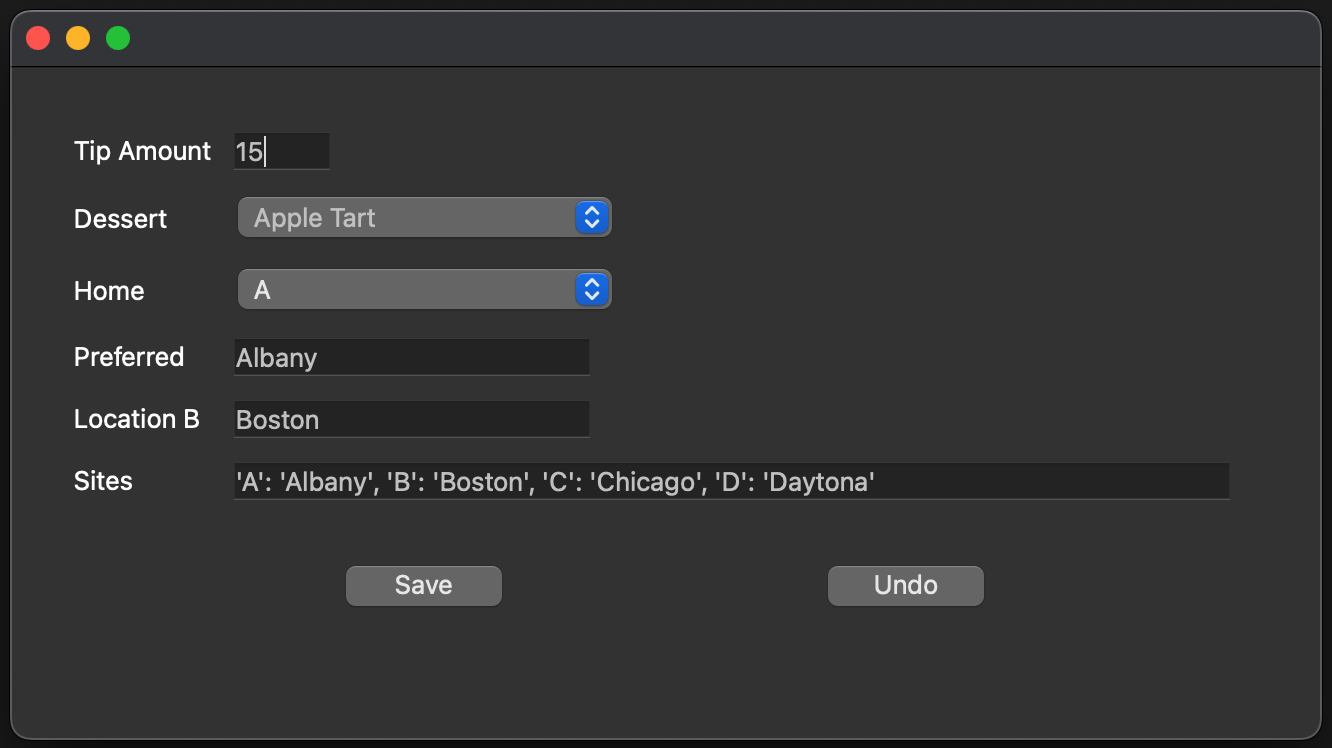
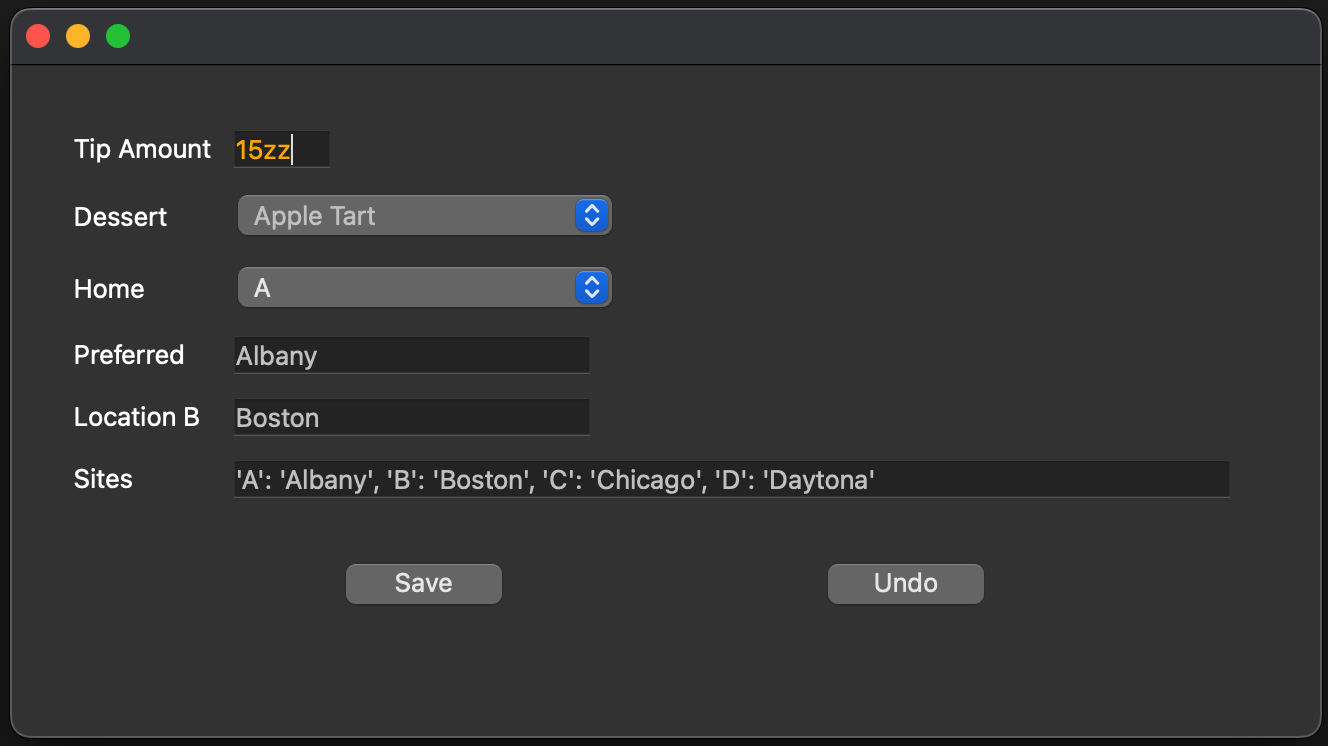
Initial

diff --git a/docs/readme.md b/docs/readme.md
@@ -19,7 +19,7 @@ read the config file, display the fields for editing, and then save the data.
 - **Configurable Layout:** Displays settings using the format you provide.
 - **Widget Support:** Supports these QT widgets: text edit, line edit, combo box, and label.
 - **Input Validation:** Validates input based on supplied regular expressions and 
-highlights invalid entries.
+highlights invalid entries. In the sample above, Tip Amount is highlighted because it contains letters.
 - **Data Syncing:** Synchronizes data values between the UI and the config file, seamlessly using the
   ConfigFile manager described below.
 - **Utilizes PyQt6**
